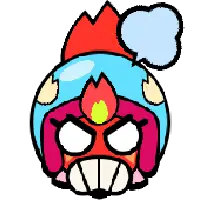
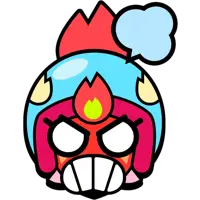
Increased quality of some pins and fixed a spelling mistake

diff --git a/backend/modules/pins.js b/backend/modules/pins.js
@@ -196,7 +196,7 @@ function getCollectionScore(collection){
     else if (overallScore < 200)    { grade = "C+"; color = "#00FF00"; }
     else if (overallScore < 300)    { grade = "B-"; color = "#00FFC0"; }
     else if (overallScore < 400)    { grade = "B" ; color = "#00FFFF"; }
-    else if (overallScore < 560)    { grade = "B+"; color = "#00FF80"; }
+    else if (overallScore < 560)    { grade = "B+"; color = "#0080FF"; }
     else if (overallScore < 720)    { grade = "A-"; color = "#8000FF"; }
     else if (overallScore < 840)    { grade = "A" ; color = "#FF03CC"; }
     else if (overallScore < 920)    { grade = "A+"; color = "#EA3331"; }
